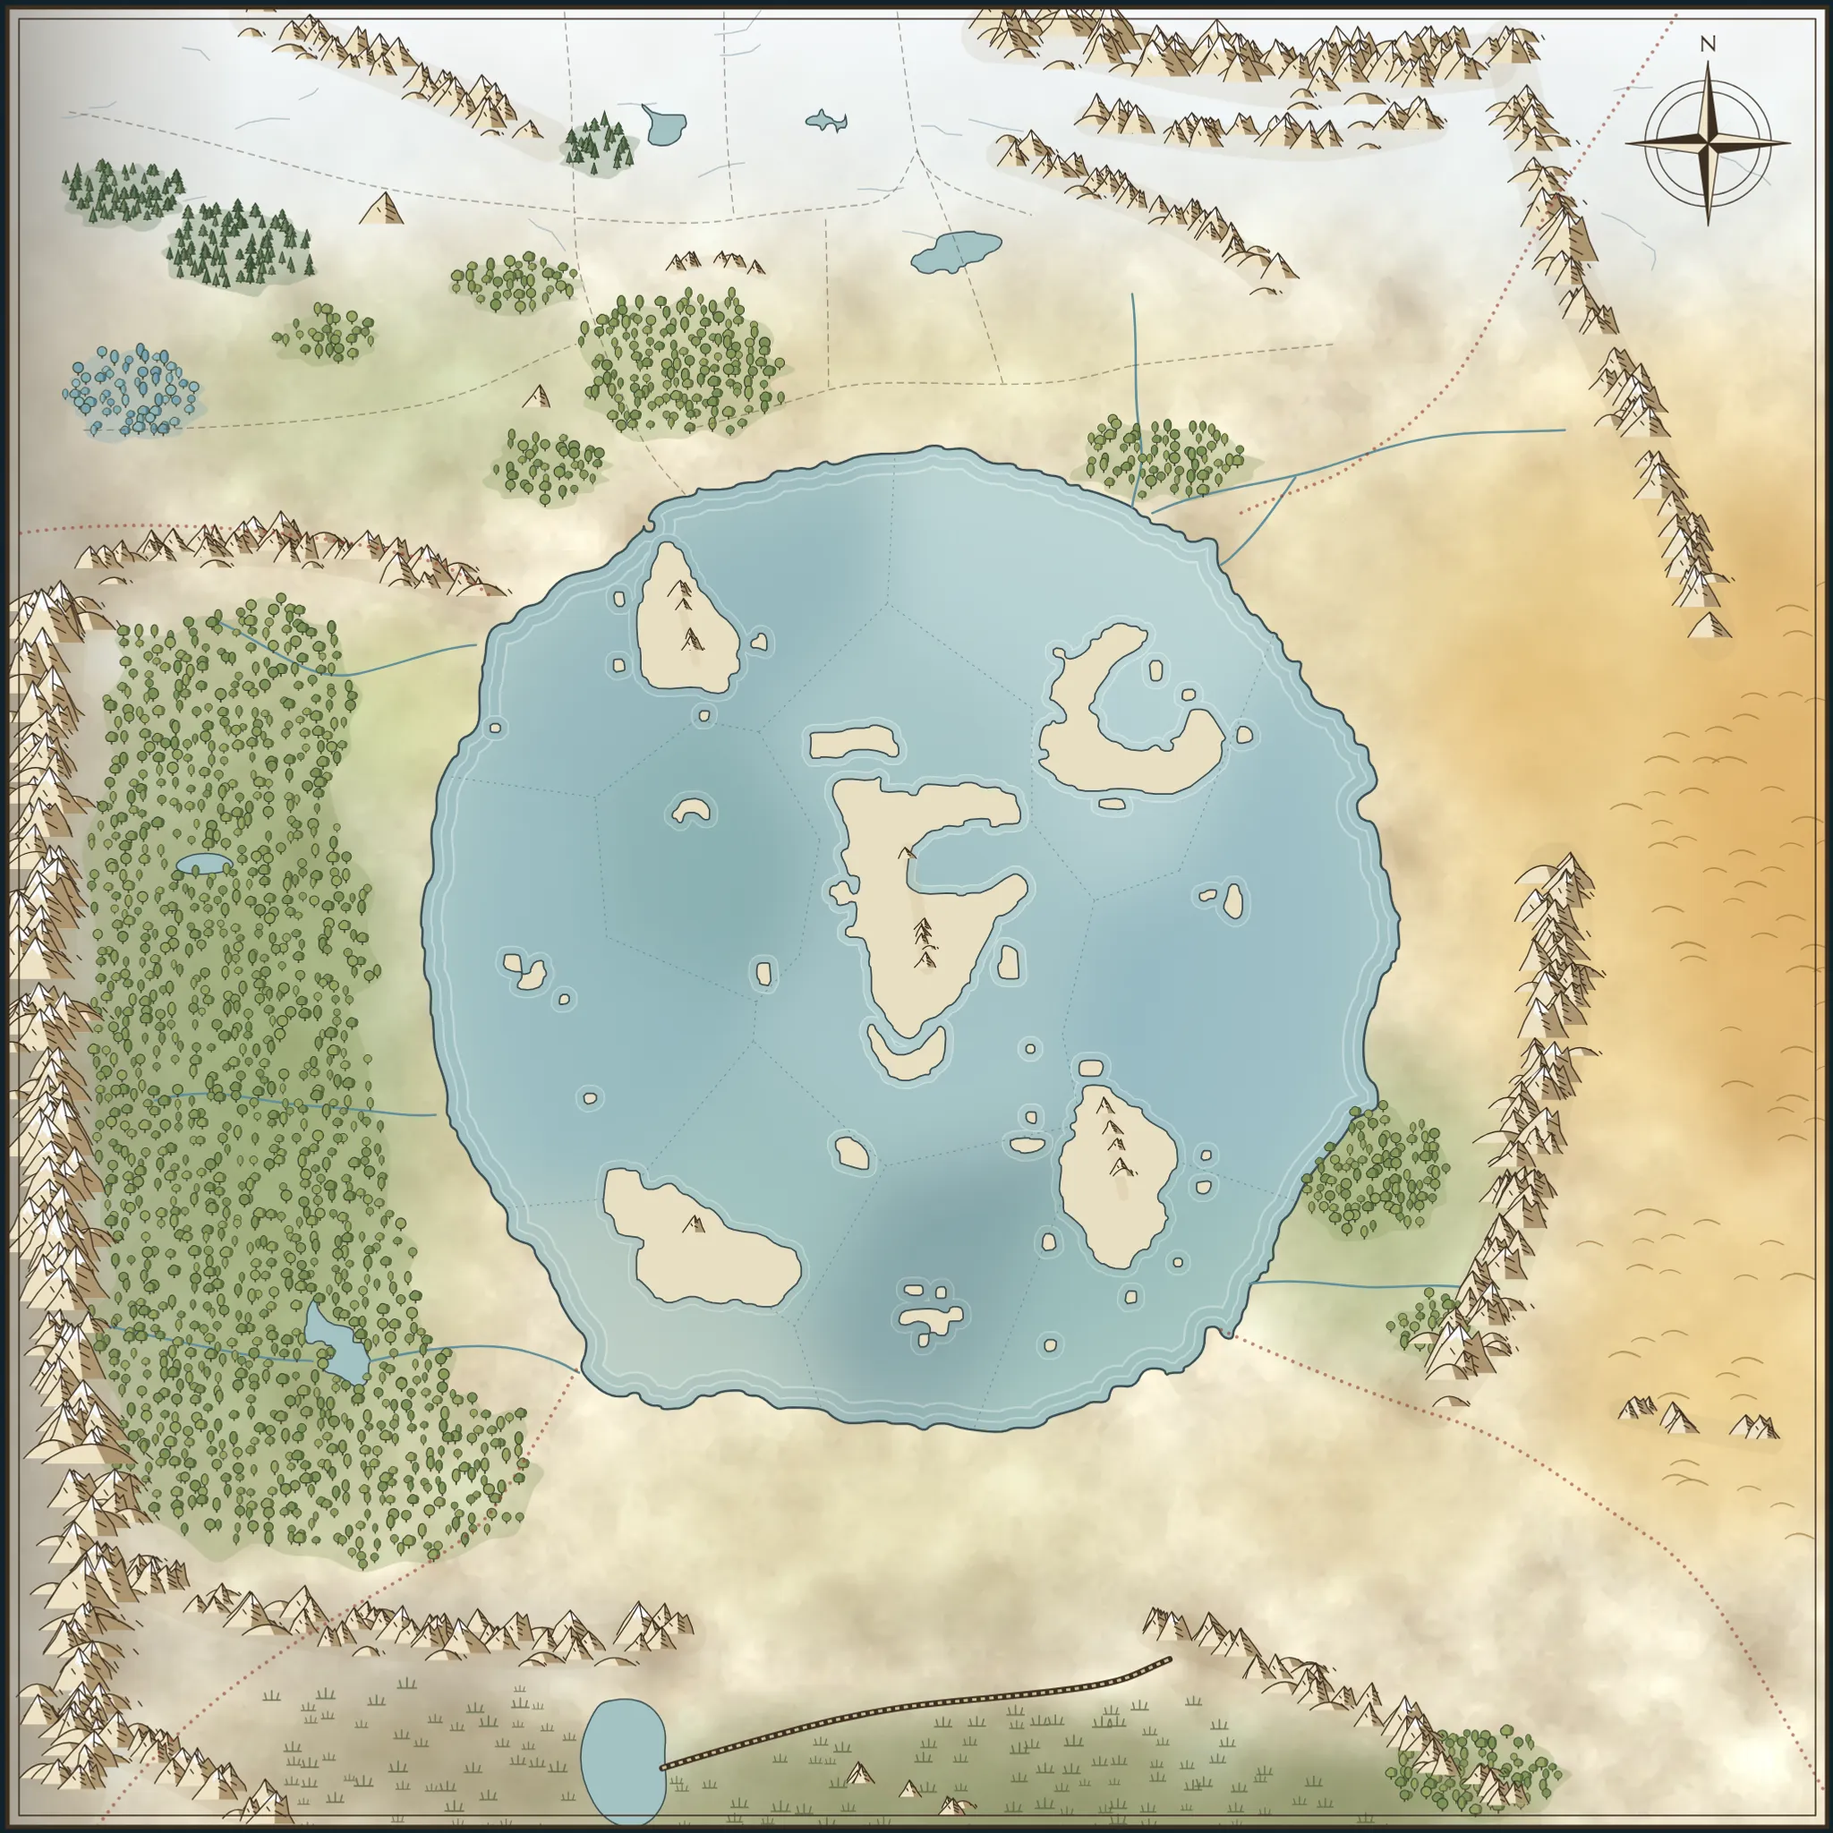
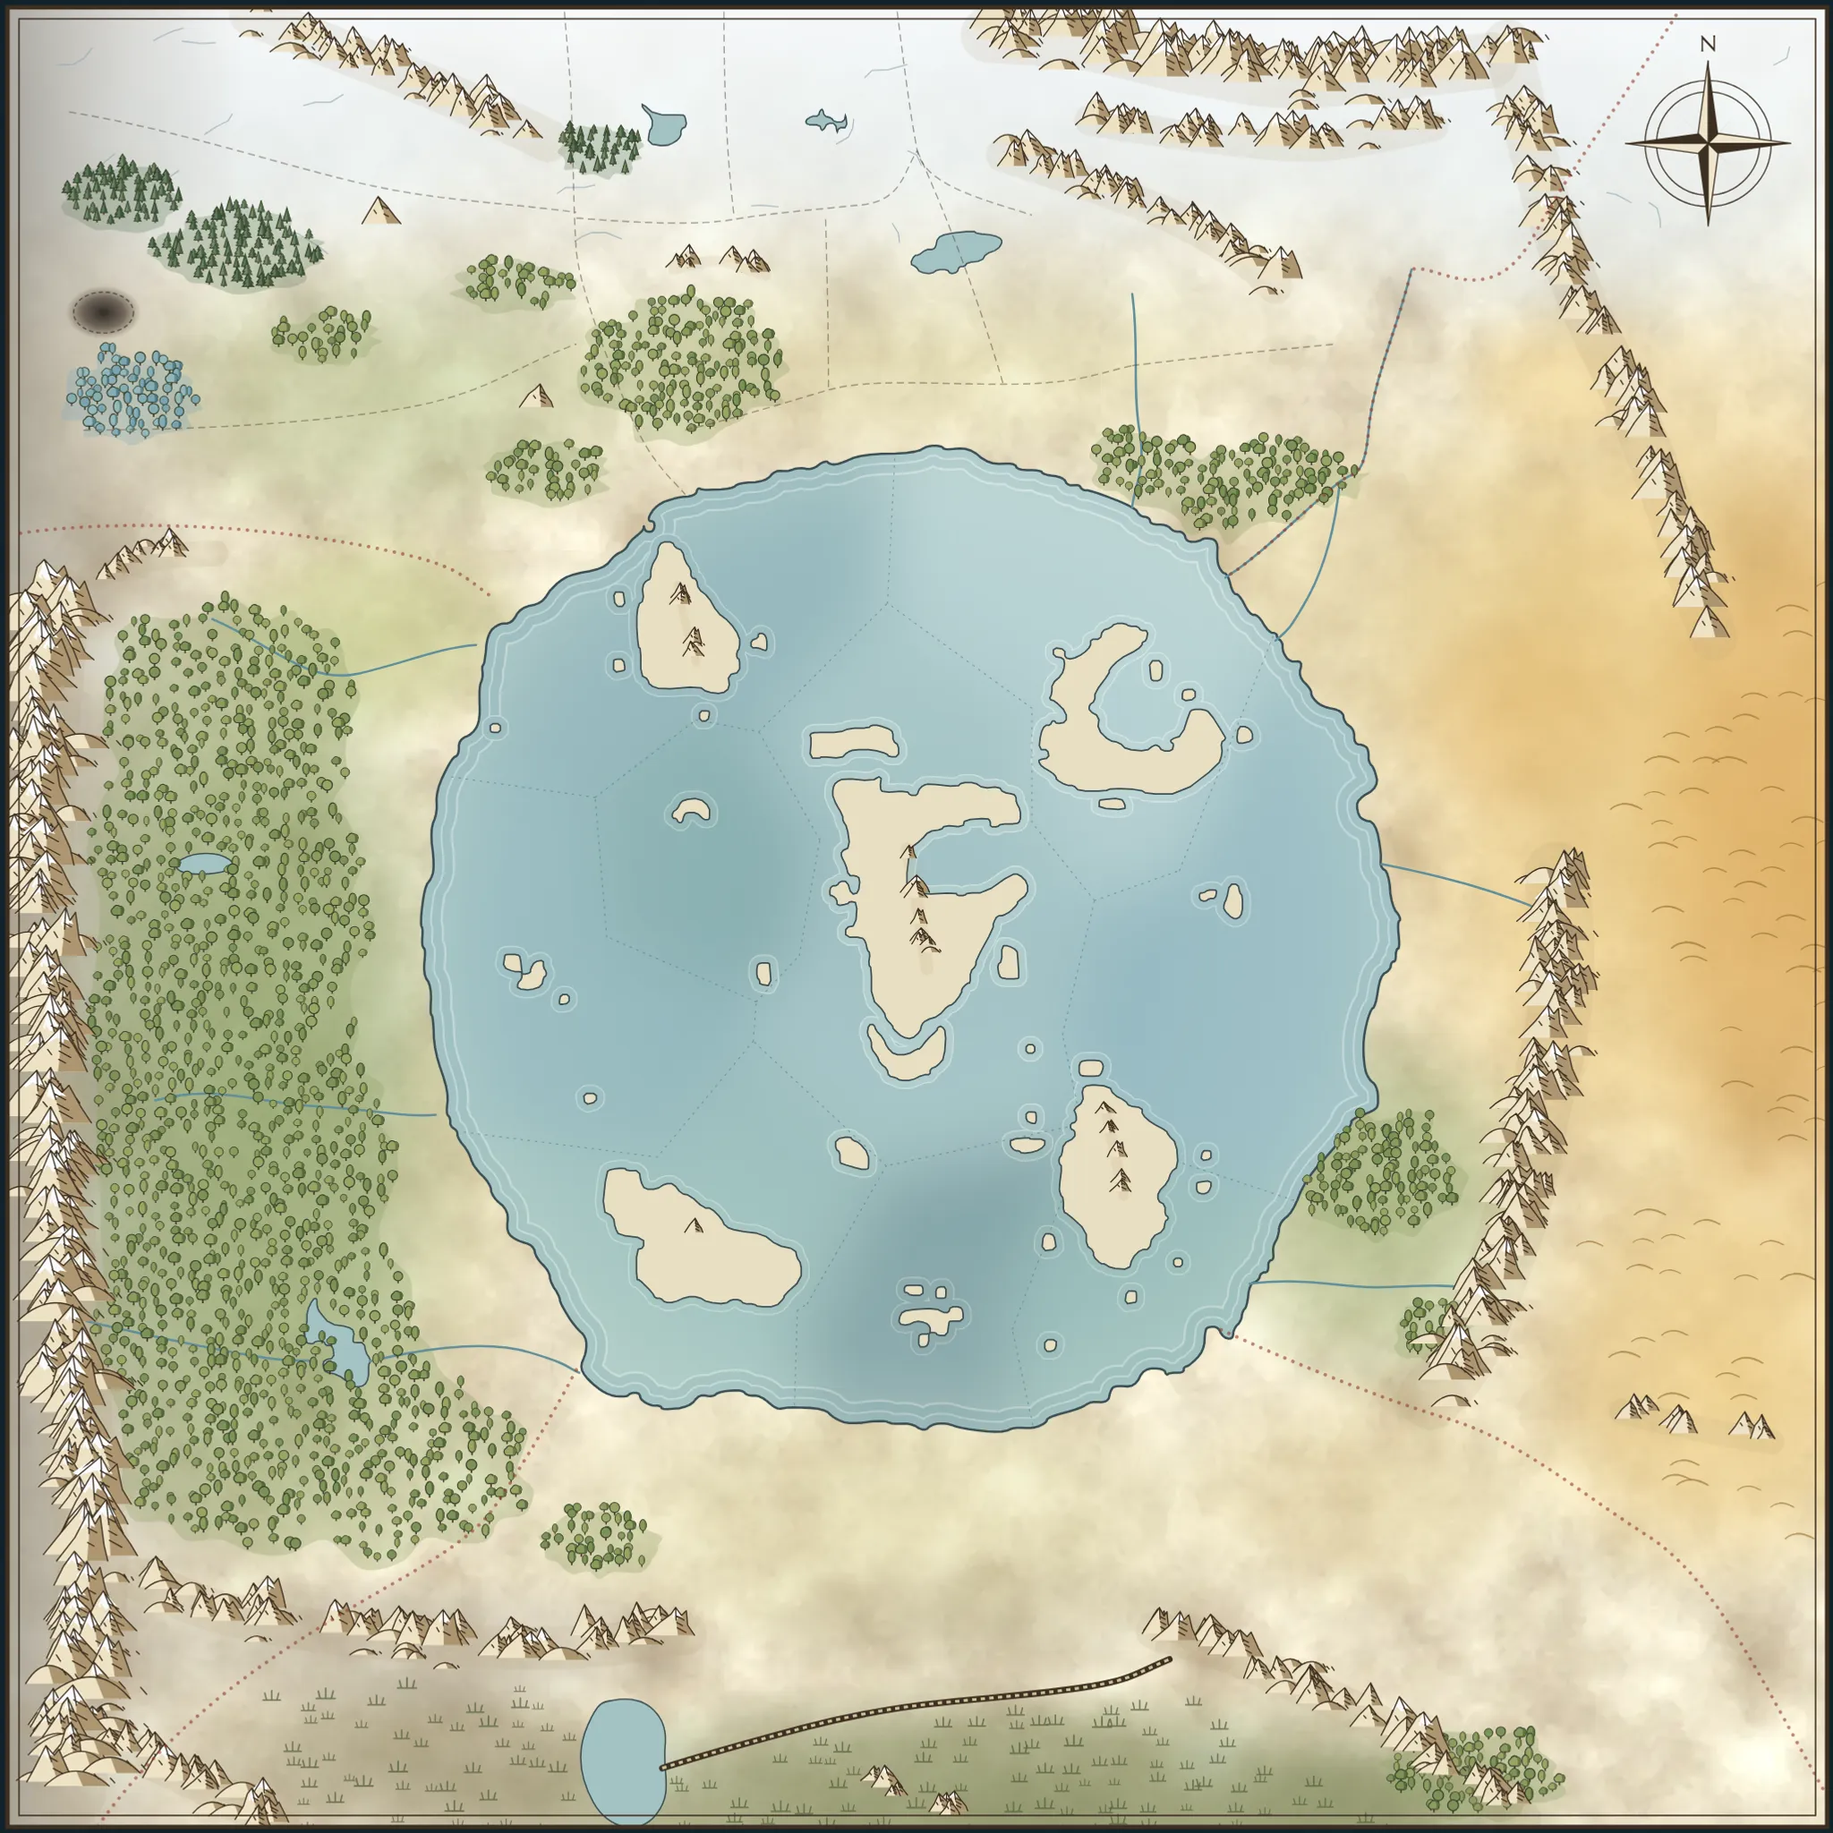
Bring the map in line with the wiki
- Partaros is the Penthos of the painted map (the wiki: "Partaros, che poi sarebbe
  divenuta l'odierna Pentos"): one city on the coast, between the two arms of the Amdinare.
- Nine seas, as in the wiki: no Mare delle Ossa; those waters belong to the Mare di
  Parmore, which Valdyris now faces.
- Nuova Theris on the eastern bank of the Amdinare, which now comes down from the
  mountains by Xerxes; Cyr at the foot of the Lerrnerum, with the river Cyrus.
- The range north of the Chult cut back to foothills, so the Piana di Wakan reaches the
  border with the North, with the altar of Tetrangelo in it.
- Nea Imera inside the Wall; a larger Foresta di Tyr, from the steppe to the sea.
- New places: the altars of Primafalia and Epithymiapolis, the temple of Kerill, the
  sanctuaries of Kalos, Tarnat and Kamigami, and the crater of the Great Cataclysm,
  dug into the 3D view too. Where the wiki gives no position they are estimated and
  their card says so.

Claude-Session: https://claude.ai/code/session_012vmjmA4teUpTfauaw8kKfQ

diff --git a/app/utils/mappa.ts b/app/utils/mappa.ts
@@ -148,21 +148,19 @@ export const MAPPA_CATENE: {
     min: 13,
     max: 21,
   },
-  // The western arc: north of the Chult…
+  // Foothills where the Alte Montagne turn east. The painted map ran a whole range on to the coast here, but the wiki
+  // puts the open Piana di Wakan on the border with the North (the altar of Tetrangelo stands in it)
   {
     linea: [
-      [338, 416],
-      [290, 401],
-      [230, 389],
-      [170, 383],
-      [110, 387],
+      [150, 386],
+      [110, 389],
       [62, 402],
     ],
-    quota: 0.55,
-    largo: 16,
+    quota: 0.4,
+    largo: 12,
     passo: 11,
-    min: 12,
-    max: 19,
+    min: 10,
+    max: 15,
   },
   // …the Alte Montagne…
   {
@@ -304,7 +302,32 @@ const FORESTE: {
   { c: [228, 238], r: [36, 18], tipo: 'latifoglie' },
   { c: [380, 330], r: [44, 22], tipo: 'latifoglie' }, // woods of Ilvia
   { c: [478, 258], r: [70, 50], tipo: 'latifoglie' }, // Foresta di Shandora
-  { c: [812, 322], r: [62, 26], tipo: 'latifoglie' }, // Foresta di Tyr
+  // Foresta di Tyr: for the wiki one of the largest forests of Fulcron, on the border between North and East, reaching
+  // the steppe to the east and the Inner Sea to the south; Bontor stays outside it, now that the forest is back within
+  // its borders
+  {
+    c: [855, 335],
+    r: [100, 45],
+    tipo: 'latifoglie',
+    contorno: [
+      [760, 318],
+      [792, 302],
+      [826, 312],
+      [862, 316],
+      [896, 310],
+      [930, 318],
+      [956, 330],
+      [946, 348],
+      [916, 352],
+      [888, 364],
+      [856, 380],
+      [822, 362],
+      [792, 352],
+      [770, 342],
+    ],
+  },
+  // Foresta di Kalos, a sanctuary of the South: placed in the wild land between Stratos and the Reame dei Nani
+  { c: [418, 1078], r: [40, 22], tipo: 'latifoglie' },
   // Foresta del Chult. The wiki: about two thirds of the West, as large as the whole Rorish, the largest forest of
   // the Ring, with the elven kingdom of Syndarra inside it. North of it the Piana di Wakan, between it and the sea a
   // strip of fields for the coastal cities; to the south-east it reaches Xyla, "at the edge of the jungles"
@@ -355,15 +378,20 @@ export const MAPPA_FIUMI = [
   'M60 922C95 930 140 940 175 946S205 948 218 950', // into Lago Iveel
   'M258 950C300 940 340 935 370 944S394 954 404 958',
   'M790 205C795 240 790 270 795 300S792 335 790 354', // Tyr
-  'M1092 300C1060 302 1030 300 1000 305S950 318 925 326C900 334 870 338 846 344S818 352 804 358', // Amdinare
-  'M904 333C892 350 880 368 868 380S858 390 852 394', // its southern arm
+  // Amdinare: down from the mountains by Xerxes, with Nuova Theris on its eastern bank, then into two arms with
+  // Partaros between them, on the sea
+  'M985 188C975 230 958 265 955 300S945 328 935 336',
+  'M935 336C915 352 895 372 878 386S862 398 855 403', // northern arm
+  'M935 336C932 365 925 395 912 418S898 440 890 447', // southern arm
+  'M1088 640C1060 628 1030 618 1005 612S980 606 964 603', // Cyrus, south of Cyr
   'M1032 900C1000 894 975 900 950 898S900 892 872 896', // Haku
 ]
 
 /** The borders between North, East, South and West. */
 export const MAPPA_CONFINI_MACRO = [
   'M14 372C100 360 200 370 260 382S320 400 345 418', // North / West
-  'M1176 0C1140 60 1100 110 1070 165S1030 250 1000 280S975 300 950 320S896 342 862 360', // North / East
+  // North / East: past the Rocca Fantasma, then along the Amdinare and its northern arm
+  'M1176 0C1140 60 1100 110 1070 165S1000 182 985 188C975 230 958 265 955 300S945 328 935 336C915 352 895 372 878 386S862 398 855 403',
   'M852 928C900 950 960 975 1010 990S1100 1040 1150 1072S1232 1180 1280 1262', // East / South
   'M402 956C384 990 366 1020 346 1050S280 1100 232 1130S120 1200 64 1280', // South / West
 ]
@@ -399,6 +427,12 @@ export const MAPPA_LAGHI: string[] = [...coste.laghi.map((l) => l.d), ...LAGHI_A
 /** The nine seas (and the Mare delle Ossa), by id: the same ids as in content/mappa.yml */
 export const MAPPA_MARI: Record<string, string> = coste.mari
 export const MAPPA_CONFINI_MARI: string = coste.confiniMari
+
+/**
+ * The crater of the Great Cataclysm (3015): "a Nord una grande esplosione devasta tutto lasciando un enorme buco
+ * nero". The wiki does not say where: placed in the empty Terre del Nord, between two forests.
+ */
+export const MAPPA_CRATERE: [number, number, number] = [72, 218, 22]
 
 /** The colours of the land, softly blended: snow, steppe, sand, forest, stone, marsh. */
 export const MAPPA_COLORI: Record<string, string> = {
@@ -438,7 +472,8 @@ export const MAPPA_BIOMI: { c: Punto; r: Punto; colore: string; forza: number }[
   { c: [290, 1232], r: [175, 72], colore: 'fango', forza: 0.65 },
   { c: [960, 1262], r: [130, 52], colore: 'palude', forza: 0.5 },
   // West: the plain of Wakan, the Chult, the coast, the stone of the Dwarves
-  { c: [282, 495], r: [85, 85], colore: 'erba', forza: 0.6 },
+  { c: [262, 440], r: [120, 85], colore: 'erba', forza: 0.6 },
+  { c: [1085, 262], r: [80, 60], colore: 'sabbia', forza: 0.45 }, // the Great Desert reaches Primafalia
   { c: [175, 760], r: [175, 360], colore: 'bosco', forza: 0.65 },
   { c: [320, 830], r: [60, 170], colore: 'prato', forza: 0.35 },
   { c: [290, 1150], r: [230, 55], colore: 'pietra', forza: 0.45 },
@@ -455,7 +490,6 @@ export const MAPPA_TINTE_MARI: Record<string, [string, number]> = {
   'mar-levante': ['#86b5a6', 0.25],
   'mare-orientale': ['#8db8cc', 0.22],
   'mare-centrale': ['#d3e6e2', 0.25],
-  'mare-delle-ossa': ['#d1cdb8', 0.35],
 }
 
 /** Areas with marsh tufts and dunes. */

diff --git a/app/utils/mappaRilievo.ts b/app/utils/mappaRilievo.ts
@@ -8,7 +8,7 @@
 // - Eryma, inside the Wall, was replaced by a chasm on the Day of the Breach (3014);
 // - Monte Iridel is a dormant volcano.
 // Browser only: the coast is drawn on a canvas to tell land from water.
-import { MAPPA_CATENE, MAPPA_ISOLE, MAPPA_LAGHI, MAPPA_LATO, MAPPA_MARE, MAPPA_PICCHI } from './mappa'
+import { MAPPA_CATENE, MAPPA_CRATERE, MAPPA_ISOLE, MAPPA_LAGHI, MAPPA_LATO, MAPPA_MARE, MAPPA_PICCHI } from './mappa'
 
 /** Height in map units of the tallest peaks; the board is 1280 wide */
 export const RILIEVO_ALTEZZA = 78
@@ -36,7 +36,7 @@ const ERYMA: Punto = [731, 1181]
 
 /** Land shapes and how they lie, by area: [centre, radii, how much higher (or lower), how rough] */
 const CARATTERE: { c: Punto; r: Punto; quota: number; ruvido: number }[] = [
-  { c: [282, 495], r: [80, 80], quota: -2, ruvido: 0.15 }, // Piana di Wakan: flat grass
+  { c: [262, 440], r: [115, 80], quota: -2, ruvido: 0.15 }, // Piana di Wakan: flat grass
   { c: [700, 1268], r: [440, 100], quota: -5, ruvido: 0.25 }, // the marsh past the Wall
   { c: [290, 1232], r: [175, 72], quota: -4, ruvido: 0.25 }, // Sabbie Mobili
   { c: [1180, 560], r: [250, 380], quota: 1, ruvido: 0.7 }, // dunes of the Great Desert
@@ -183,8 +183,12 @@ export function rilievoMappa(lato = 321): Rilievo {
       const dEryma = Math.hypot(x - ERYMA[0], y - ERYMA[1])
       if (dMuro < 4 && dEryma > 14) muro = 9 * (1 - (dMuro / 4) ** 4)
       const voragine = -16 * Math.exp(-((dEryma / 13) ** 2))
+      // The crater left by the Great Cataclysm in the North
+      const [cx, cy, cr] = MAPPA_CRATERE
+      const dc = Math.hypot(x - cx, y - cy)
+      const cratere = -22 * Math.exp(-((dc / cr) ** 2)) + 7 * Math.exp(-(((dc - cr * 1.1) / (cr * 0.35)) ** 2))
 
-      const suolo = (base + colline + monti + muro + voragine) * costa[i]!
+      const suolo = (base + colline + monti + muro + voragine + cratere) * costa[i]!
       // Under water: from the beach down to the open sea
       const sotto = -2 - 16 * (1 - fondale[i]!)
       quote[i] = terra[i]! > 0.5 ? Math.max(suolo, 0.8) : Math.min(sotto, -1) * (1 - costa[i]!) + suolo * costa[i]!

diff --git a/app/components/mappa/MappaAnello.vue b/app/components/mappa/MappaAnello.vue
@@ -410,6 +410,11 @@ const f = (n: number) => Math.round(n * 10) / 10
           <stop offset="0.5" stop-color="#a39d92" stop-opacity="0.35" />
           <stop offset="1" stop-color="#a39d92" stop-opacity="0" />
         </linearGradient>
+        <radialGradient id="m-cratere">
+          <stop offset="0" stop-color="#1d1a18" stop-opacity="0.9" />
+          <stop offset="0.55" stop-color="#3a2f25" stop-opacity="0.65" />
+          <stop offset="1" stop-color="#4a3b2c" stop-opacity="0" />
+        </radialGradient>
         <!-- One soft patch of colour per kind of land -->
         <radialGradient v-for="(colore, nome) in MAPPA_COLORI" :id="`m-b-${nome}`" :key="nome">
           <stop offset="0" :stop-color="colore" />
@@ -491,6 +496,11 @@ const f = (n: number) => Math.round(n * 10) / 10
         <rect :width="LATO" height="250" fill="url(#m-gelo)" class="m-bioma" />
         <rect width="170" :height="LATO" fill="url(#m-ovest)" class="m-bioma" />
         <path v-if="terreno" :d="terreno.crepe" class="m-crepe" />
+        <!-- The black crater of the Great Cataclysm -->
+        <g :transform="`translate(${MAPPA_CRATERE[0]} ${MAPPA_CRATERE[1]})`">
+          <ellipse :rx="MAPPA_CRATERE[2] * 1.2" :ry="MAPPA_CRATERE[2] * 0.85" fill="url(#m-cratere)" />
+          <ellipse :rx="MAPPA_CRATERE[2] * 0.95" :ry="MAPPA_CRATERE[2] * 0.65" class="m-orlo" />
+        </g>
 
         <!-- Forests under everything else -->
         <g v-if="terreno">
@@ -698,6 +708,13 @@ svg:focus-visible {
   stroke-width: 0.8;
   stroke-linecap: round;
   stroke-linejoin: round;
+  opacity: 0.7;
+}
+.m-orlo {
+  fill: none;
+  stroke: #3e3022;
+  stroke-width: 0.9;
+  stroke-dasharray: 3 2;
   opacity: 0.7;
 }
 .m-tinta {

diff --git a/tests/e2e/navigation.spec.ts b/tests/e2e/navigation.spec.ts
@@ -83,13 +83,19 @@ test('wiki map: a place found with the search opens its card, and the address re
   // Accents are ignored, the painted name finds the wiki one
   await search.fill('utelan')
   await expect(page.getByRole('option', { name: /Estar/ })).toBeVisible()
-  await search.fill('partaros')
+  // Penthos, on the painted map, is Partaros
+  await search.fill('penthos')
   await search.press('Enter')
 
   const card = page.getByRole('complementary')
   await expect(card.getByRole('heading', { name: 'Partaros' })).toBeVisible()
-  await expect(card.getByText('Posizione indicativa')).toBeVisible()
+  await expect(card.getByText('Sulla mappa dipinta: Penthos')).toBeVisible()
   await expect(page).toHaveURL(/\?luogo=partaros$/)
+
+  // Places the painted map does not show say so
+  await search.fill('bontor')
+  await search.press('Enter')
+  await expect(card.getByText('Posizione indicativa')).toBeVisible()
 
   // A shared link opens on the same card
   await page.goto('/wiki/mappa?luogo=valdyris')

diff --git a/content/wiki/mappa.md b/content/wiki/mappa.md
@@ -11,8 +11,8 @@ Trascina per spostarti, usa la rotella, i tasti **+** e **−** o due dita per i
 
 Il pulsante **3D** mostra l’Anello in rilievo, come un plastico: trascina per spostarti, usa due dita o il tasto destro del mouse per ruotarlo e inclinarlo. Le altezze seguono le descrizioni della wiki: le Alte Montagne sono le più alte, a sud la palude sta sotto la Muraglia, interrotta a Eryma dalla voragine della Breccia.
 
-La mappa è ridisegnata a partire dalla [mappa dipinta di Fulcron](/mappa-fulcron.jpg). Dove la wiki e la mappa dipinta non coincidono vale la wiki, e la scheda riporta il nome che compare sulla mappa dipinta (il Regno di Utelan è Estar, il Mare dei Prati è il Mar dei Pirati).
+La mappa è ridisegnata a partire dalla [mappa dipinta di Fulcron](/mappa-fulcron.jpg). Dove la wiki e la mappa dipinta non coincidono vale la wiki, e la scheda riporta il nome che compare sulla mappa dipinta (il Regno di Utelan è Estar, il Mare dei Prati è il Mar dei Pirati, Penthos è Partaros, che la wiki chiama anche Pentos). Il Mare delle Ossa della mappa dipinta non c’è: la wiki divide il Mare Interno in nove mari, e quelle acque sono del Mare di Parmore. Anche il Chult è molto più esteso che sul dipinto, perché la wiki gli dà due terzi dell’Ovest.
 
 ## Posizioni indicative
 
-Alcuni luoghi di cui parla la wiki non sono segnati sulla mappa dipinta: Partaros, Bontor, Yomerick, Hellond, Xerxes, Nea Limen, Xyla, la Foresta Cerulea, la Piana di Wakan, Nea Imera e i luoghi della Guerra dell’Occhio. Sono stati messi dove li descrive la wiki e la loro scheda lo dice; il pulsante **Livelli** li evidenzia tutti. Anche i confini tra i regni sono tracciati a mano e vanno presi come indicativi.
+Alcuni luoghi di cui parla la wiki non sono segnati sulla mappa dipinta: Bontor, Yomerick, Hellond, Xerxes, Nea Limen, Xyla, la Foresta Cerulea, i Sacri Altari di Primafalia ed Epithymiapolis, il tempio di Kerill, il fiume Cyrus, i Santuari di Kalos, Tarnat e Kamigami, il cratere del Grande Cataclisma e i luoghi della Guerra dell’Occhio. Sono stati messi dove li descrive la wiki, o dove è più verosimile quando la wiki non lo dice, e la loro scheda lo segnala; il pulsante **Livelli** li evidenzia tutti. Anche i confini tra i regni sono tracciati a mano e vanno presi come indicativi.
